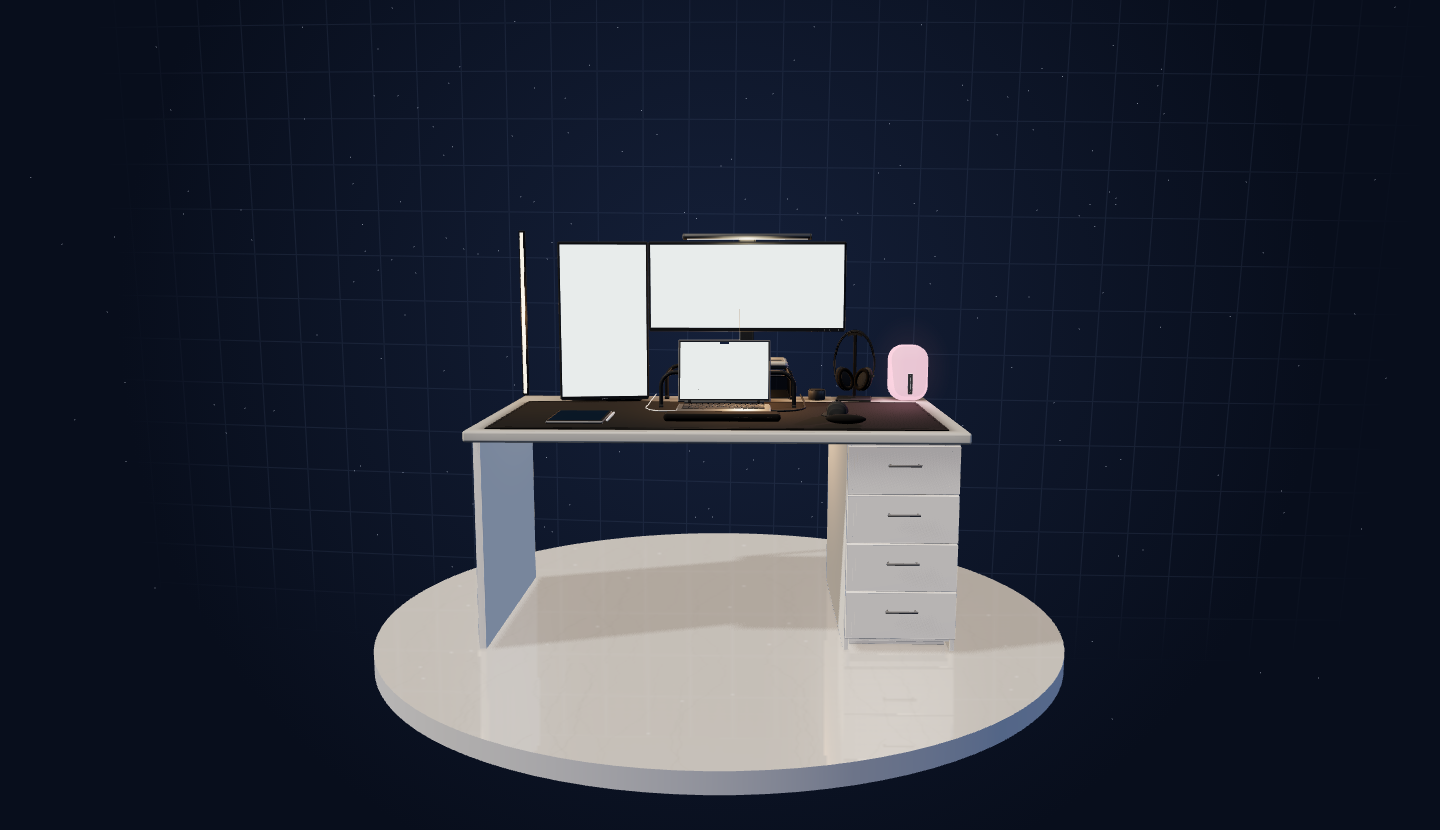
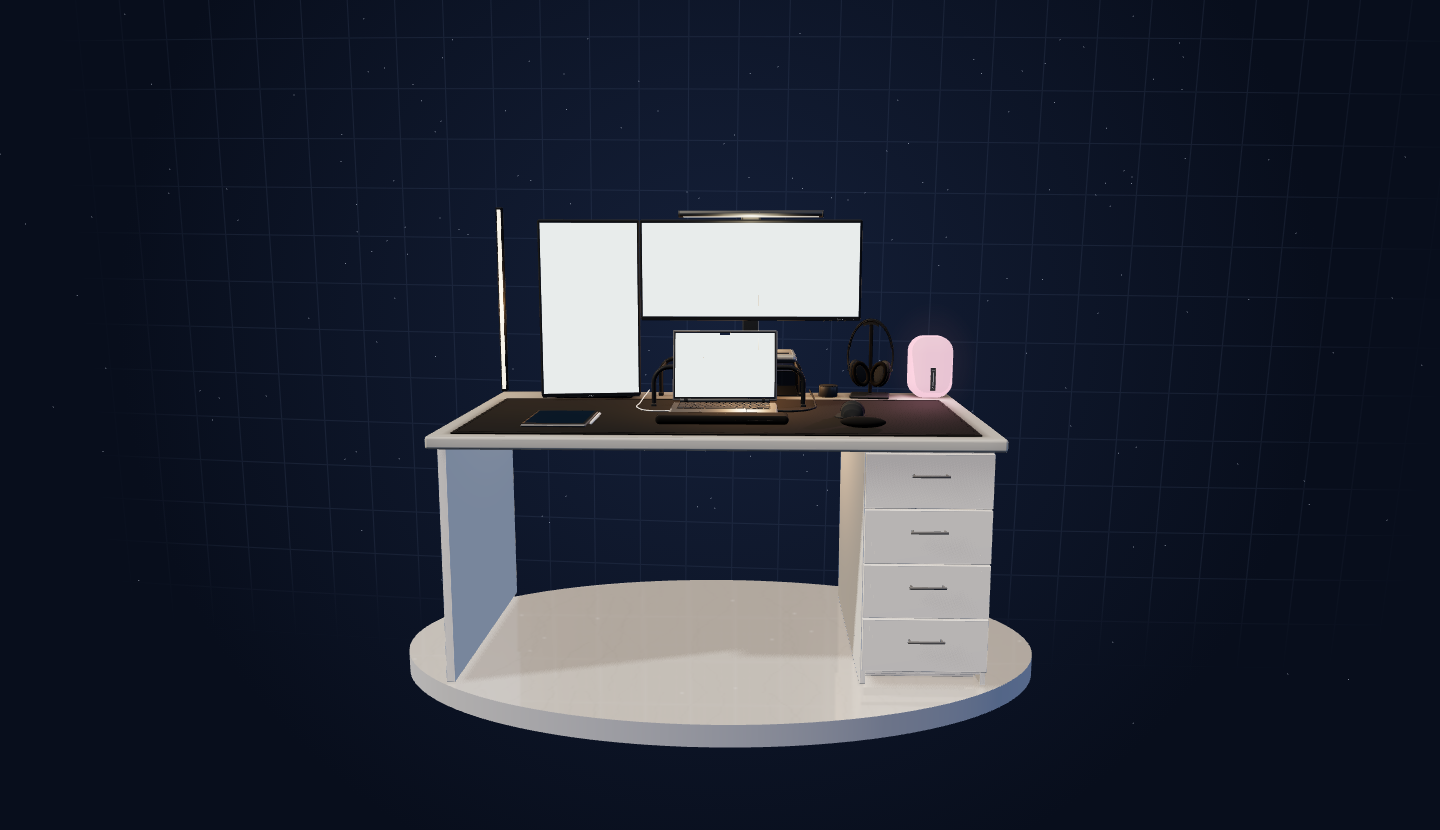
Tighten the cosmic platform framing

Changed region(s): [[0.25, 0.241, 0.75, 0.9639]]

diff --git a/src/components/desk/platform.tsx b/src/components/desk/platform.tsx
@@ -7,12 +7,10 @@ import { RepeatWrapping, SRGBColorSpace } from "three";
 
 const PLATFORM_TOP = -0.694;
 const PLATFORM_THICKNESS = 0.06;
-const DESK_WIDTH = 1.5;
-const DESK_DEPTH = 0.87;
 
-/** The circular platform clears the desk footprint by 25 cm on every side. */
-export const PLATFORM_RADIUS =
-  Math.hypot(DESK_WIDTH / 2, DESK_DEPTH / 2) + 0.25;
+/** A close-fitting ellipse keeps the desk dominant in the final composition. */
+export const PLATFORM_RADIUS_X = 0.93;
+export const PLATFORM_RADIUS_Z = 0.58;
 
 export default function DeskPlatform() {
   const mobile = useThree((state) => state.size.width < 700);
@@ -20,8 +18,8 @@ export default function DeskPlatform() {
   const marble = useMemo(() => {
     const map = source.clone();
     map.wrapS = map.wrapT = RepeatWrapping;
-    map.repeat.set(2.5, 2.5);
-    map.offset.set(-0.75, -0.75);
+    map.repeat.set(2.4, 1.5);
+    map.offset.set(-0.7, -0.25);
     map.colorSpace = SRGBColorSpace;
     map.needsUpdate = true;
     return map;
@@ -34,9 +32,10 @@ export default function DeskPlatform() {
       <mesh
         position={[0, PLATFORM_TOP, 0]}
         rotation={[-Math.PI / 2, 0, 0]}
+        scale={[PLATFORM_RADIUS_X, PLATFORM_RADIUS_Z, 1]}
         receiveShadow
       >
-        <circleGeometry args={[PLATFORM_RADIUS, mobile ? 64 : 96]} />
+        <circleGeometry args={[1, mobile ? 64 : 96]} />
         <MeshReflectorMaterial
           map={marble}
           color="#ffffff"
@@ -52,17 +51,11 @@ export default function DeskPlatform() {
       </mesh>
       <mesh
         position={[0, PLATFORM_TOP - PLATFORM_THICKNESS / 2, 0]}
+        scale={[PLATFORM_RADIUS_X, 1, PLATFORM_RADIUS_Z]}
         receiveShadow
       >
         <cylinderGeometry
-          args={[
-            PLATFORM_RADIUS,
-            PLATFORM_RADIUS,
-            PLATFORM_THICKNESS,
-            mobile ? 64 : 96,
-            1,
-            true,
-          ]}
+          args={[1, 1, PLATFORM_THICKNESS, mobile ? 64 : 96, 1, true]}
         />
         <meshStandardMaterial
           color="#aeb6c3"

diff --git a/src/components/desk/journey-scene.tsx b/src/components/desk/journey-scene.tsx
@@ -8,7 +8,7 @@ import {
   useState,
   type RefObject,
 } from "react";
-import DeskPlatform, { PLATFORM_RADIUS } from "./platform";
+import DeskPlatform, { PLATFORM_RADIUS_X } from "./platform";
 import CosmicEnvironment, { type CosmicPointer } from "./cosmic-environment";
 import DeskLighting from "./lighting";
 import { DeskObjectControls, useDeskInteractions } from "./interactions";
@@ -207,11 +207,11 @@ function Driver({
     const openingTarget = new Vector3(...opening.position);
     const openingDistance =
       (Math.min(opening.width / aspect, opening.height) * 0.92) / (2 * tangent);
-    const platformSpan = PLATFORM_RADIUS * 2 + 0.2;
+    const platformSpan = PLATFORM_RADIUS_X * 2 + 0.12;
     const roomDistance = Math.max(
-      3.45,
+      3.05,
       platformSpan / aspect / (2 * tangent),
-      1.8 / (2 * tangent),
+      1.7 / (2 * tangent),
     );
     return {
       opening: {
@@ -279,6 +279,7 @@ function Driver({
       if (excluded) {
         pointer.current.x = pointer.current.y = 0;
         pointer.current.targetInfluence = 0;
+        pointer.current.influence = 0;
         if (active) invalidate();
         return;
       }
@@ -365,6 +366,8 @@ function Driver({
     p.currentX += (p.x - p.currentX) * positionDamping;
     p.currentY += (p.y - p.currentY) * positionDamping;
     p.influence += (p.targetInfluence - p.influence) * influenceDamping;
+    if (Math.abs(p.targetInfluence - p.influence) < 0.03)
+      p.influence = p.targetInfluence;
     const strength = (stop: CameraStop) =>
       stop === "opening"
         ? 0

diff --git a/src/components/desk/journey.tsx b/src/components/desk/journey.tsx
@@ -211,8 +211,8 @@ export default function DeskJourney({
               src="/images/desk/room-poster.webp"
               alt={
                 en
-                  ? "My desk floating on a circular marble platform in space"
-                  : "Uzayda yuvarlak mermer bir platformda duran çalışma masam"
+                  ? "My desk floating on a compact elliptical marble platform in space"
+                  : "Uzayda kompakt elips mermer bir platformda duran çalışma masam"
               }
               fill
               sizes="100vw"
@@ -224,8 +224,8 @@ export default function DeskJourney({
               src="/images/desk/room-poster.webp"
               alt={
                 en
-                  ? "My desk on a circular marble platform against a quiet cosmic grid"
-                  : "Sakin kozmik bir ağın önünde yuvarlak mermer platformdaki çalışma masam"
+                  ? "My desk on an elliptical marble platform against a quiet cosmic grid"
+                  : "Sakin kozmik bir ağın önünde elips mermer platformdaki çalışma masam"
               }
               fill
               sizes="100vw"

diff --git a/docs/qa/room/README.md b/docs/qa/room/README.md
@@ -2,15 +2,15 @@
 
 ## Current cosmic platform
 
-The approved screen journey and 8.5-viewport native scroll timing are unchanged. The final camera now reveals the desk on a reflective circular marble platform in a quiet cosmic field. The former room walls and ceiling are removed. `ultrawide-room-final.png` records the previous room baseline; `cosmic-platform.png` is the current 1440 × 830 fallback source and review capture.
+The approved screen journey and 8.5-viewport native scroll timing are unchanged. The final camera now reveals the desk on a reflective elliptical marble platform in a quiet cosmic field. The former room walls and ceiling are removed. `ultrawide-room-final.png` records the previous room baseline; `cosmic-platform.png` is the current 1440 × 830 fallback source and review capture.
 
-The platform top remains at -0.694 m, immediately below the support contract's -0.692 m, and extends 25 cm beyond the corners of the 1.5 × 0.87 m desk footprint. Its 6 cm side gives the floating surface a visible edge. One point geometry contains the fixed depth-distributed stars. One curved grid plane draws procedural anti-aliased lines whose rectangular boundary fades before the mesh edge.
+The platform top remains at -0.694 m, immediately below the support contract's -0.692 m. Its 1.86 × 1.16 m ellipse leaves about 18 cm beside the 1.5 m desk and 14.5 cm beyond its 0.87 m depth. Its 6 cm side gives the floating surface a visible edge. The final camera moves from 3.45 m to 3.05 m, enlarging the desk while retaining the full platform. One point geometry contains the fixed depth-distributed stars. One curved grid plane draws procedural anti-aliased lines whose rectangular boundary fades before the mesh edge.
 
 Fine-pointer movement updates refs and shader uniforms rather than React state. The grid is inactive at the opening and reading stops, responds only during the final exploration view, fades when the pointer reaches a screen or control, and stops invalidating frames after it settles. Touch devices keep the same scroll depth with reduced geometry and no pointer deformation. There is no elapsed-time shader input or idle animation.
 
 The fallback alt text in both languages describes the cosmic platform. Reduced motion, no JavaScript, model failure and WebGL context loss retain the complete HTML story. `npm run desk:capture-cosmic` reproduces the review PNG and public WebP from the local review route.
 
-The production poster capture measured **112 steady draw calls / 199,901 submitted triangles**, within the 130 / 210,000 budget. Its one-time environment and shadow setup peaked at 212 draw calls and is recorded separately from the settled frame. The public WebP remains 1440 × 830 and is 30 KB.
+The revised production poster capture measured **104 steady draw calls / 176,913 submitted triangles**, within the 130 / 210,000 budget. Its one-time environment and shadow setup peaked at 204 draw calls and is recorded separately from the settled frame. The public WebP remains 1440 × 830.
 
 The September 16 verification passes type generation, TypeScript, ESLint, all 40 unit tests, bilingual content validation and the production build. The full Playwright run completed 96 scenarios: **78 passed and 18 were skipped**. The skips are the intentional fine-pointer exclusion on mobile and the existing WebGL-gated mobile WebKit cases; WebKit still passed the localized static content, reduced-motion, no-JavaScript, failure fallback, navigation and accessibility paths. Physical iPhone Safari testing remains a release prerequisite.
 

diff --git a/docs/design.md b/docs/design.md
@@ -18,6 +18,6 @@ The approved room entrance supersedes the original two-column schematic hero. Th
 
 ## September 16: cosmic platform
 
-The room shell is replaced by a quiet cosmic setting while the approved screen journey, content and object interactions remain unchanged. The desk stands on a 6 cm circular marble platform sized from the 1.5 × 0.87 m desk footprint with 25 cm clearance beyond its corners. A sparse star field and a low-contrast curved grid curtain appear as the camera withdraws; the palette is space `#080e1c`, distant atmosphere `#152039`, grid `#7286ad` and stars `#dce5f5`.
+The room shell is replaced by a quiet cosmic setting while the approved screen journey, content and object interactions remain unchanged. The desk stands on a close-fitting 1.86 × 1.16 m elliptical marble platform with a 6 cm visible edge. A sparse star field and a low-contrast curved grid curtain appear as the camera withdraws; the palette is space `#080e1c`, distant atmosphere `#152039`, grid `#7286ad` and stars `#dce5f5`. The final camera sits at 3.05 m so the desk remains the dominant form.
 
 The grid is the one expressive effect. It bends locally under a fine pointer only in the final exploration view, ignores screens and controls, and returns to rest without a continuous animation loop. Touch retains scroll depth without deformation. Reduced motion, no JavaScript and WebGL failure use a capture of the same cosmic composition. The scene remains demand-rendered and keeps the existing 130 draw-call / 210,000 submitted-triangle steady-frame budget.

diff --git a/docs/scene-budget.md b/docs/scene-budget.md
@@ -22,6 +22,6 @@ The schematic above is retained as historical documentation only; it is no longe
 
 ## September 16 cosmic environment
 
-The desk journey now ends on a thin circular marble platform in a cosmic field. Room walls and ceiling were removed. The replacement adds one responsive segmented grid plane, one point geometry for all stars and one platform edge; it introduces no external texture, post-processing pass or continuous animation. The existing marble texture supplies the platform top.
+The desk journey now ends on a thin elliptical marble platform in a cosmic field. Room walls and ceiling were removed. The replacement adds one responsive segmented grid plane, one point geometry for all stars and one platform edge; it introduces no external texture, post-processing pass or continuous animation. The existing marble texture supplies the platform top.
 
 Desktop uses 2,688 grid triangles and 240 points; mobile uses 1,584 grid triangles and 130 points. Pointer values stay in refs and shader uniforms. Frames are invalidated during scroll, pointer movement and the approximately one-second return to rest, then stop. The established steady-frame ceiling remains 130 draw calls / 210,000 submitted triangles, including reflection and shadow passes. Current measurements and screenshots live in `docs/qa/room/README.md`.

diff --git a/docs/desk-model.md b/docs/desk-model.md
@@ -69,4 +69,4 @@ The desk is now integrated into the homepage in both languages. The journey star
 
 ## September 16 cosmic platform
 
-The room geometry is superseded by a 6 cm circular marble platform, sparse depth-distributed stars and a curved procedural grid curtain. The desk model, screen anchors and scroll timing remain unchanged. Fine-pointer input now reaches the existing bounded camera parallax and the new local grid deformation from the shared scene surface; screens and controls suppress the deformation. Mobile keeps the fitted scroll camera with a lighter grid and star count, while reduced motion and failure modes use the updated cosmic poster.
+The room geometry is superseded by a close-fitting 1.86 × 1.16 m elliptical marble platform with a 6 cm edge, sparse depth-distributed stars and a curved procedural grid curtain. The desk model, screen anchors and scroll timing remain unchanged. Fine-pointer input now reaches the existing bounded camera parallax and the new local grid deformation from the shared scene surface; screens and controls suppress the deformation. Mobile keeps the fitted scroll camera with a lighter grid and star count, while reduced motion and failure modes use the updated cosmic poster.
